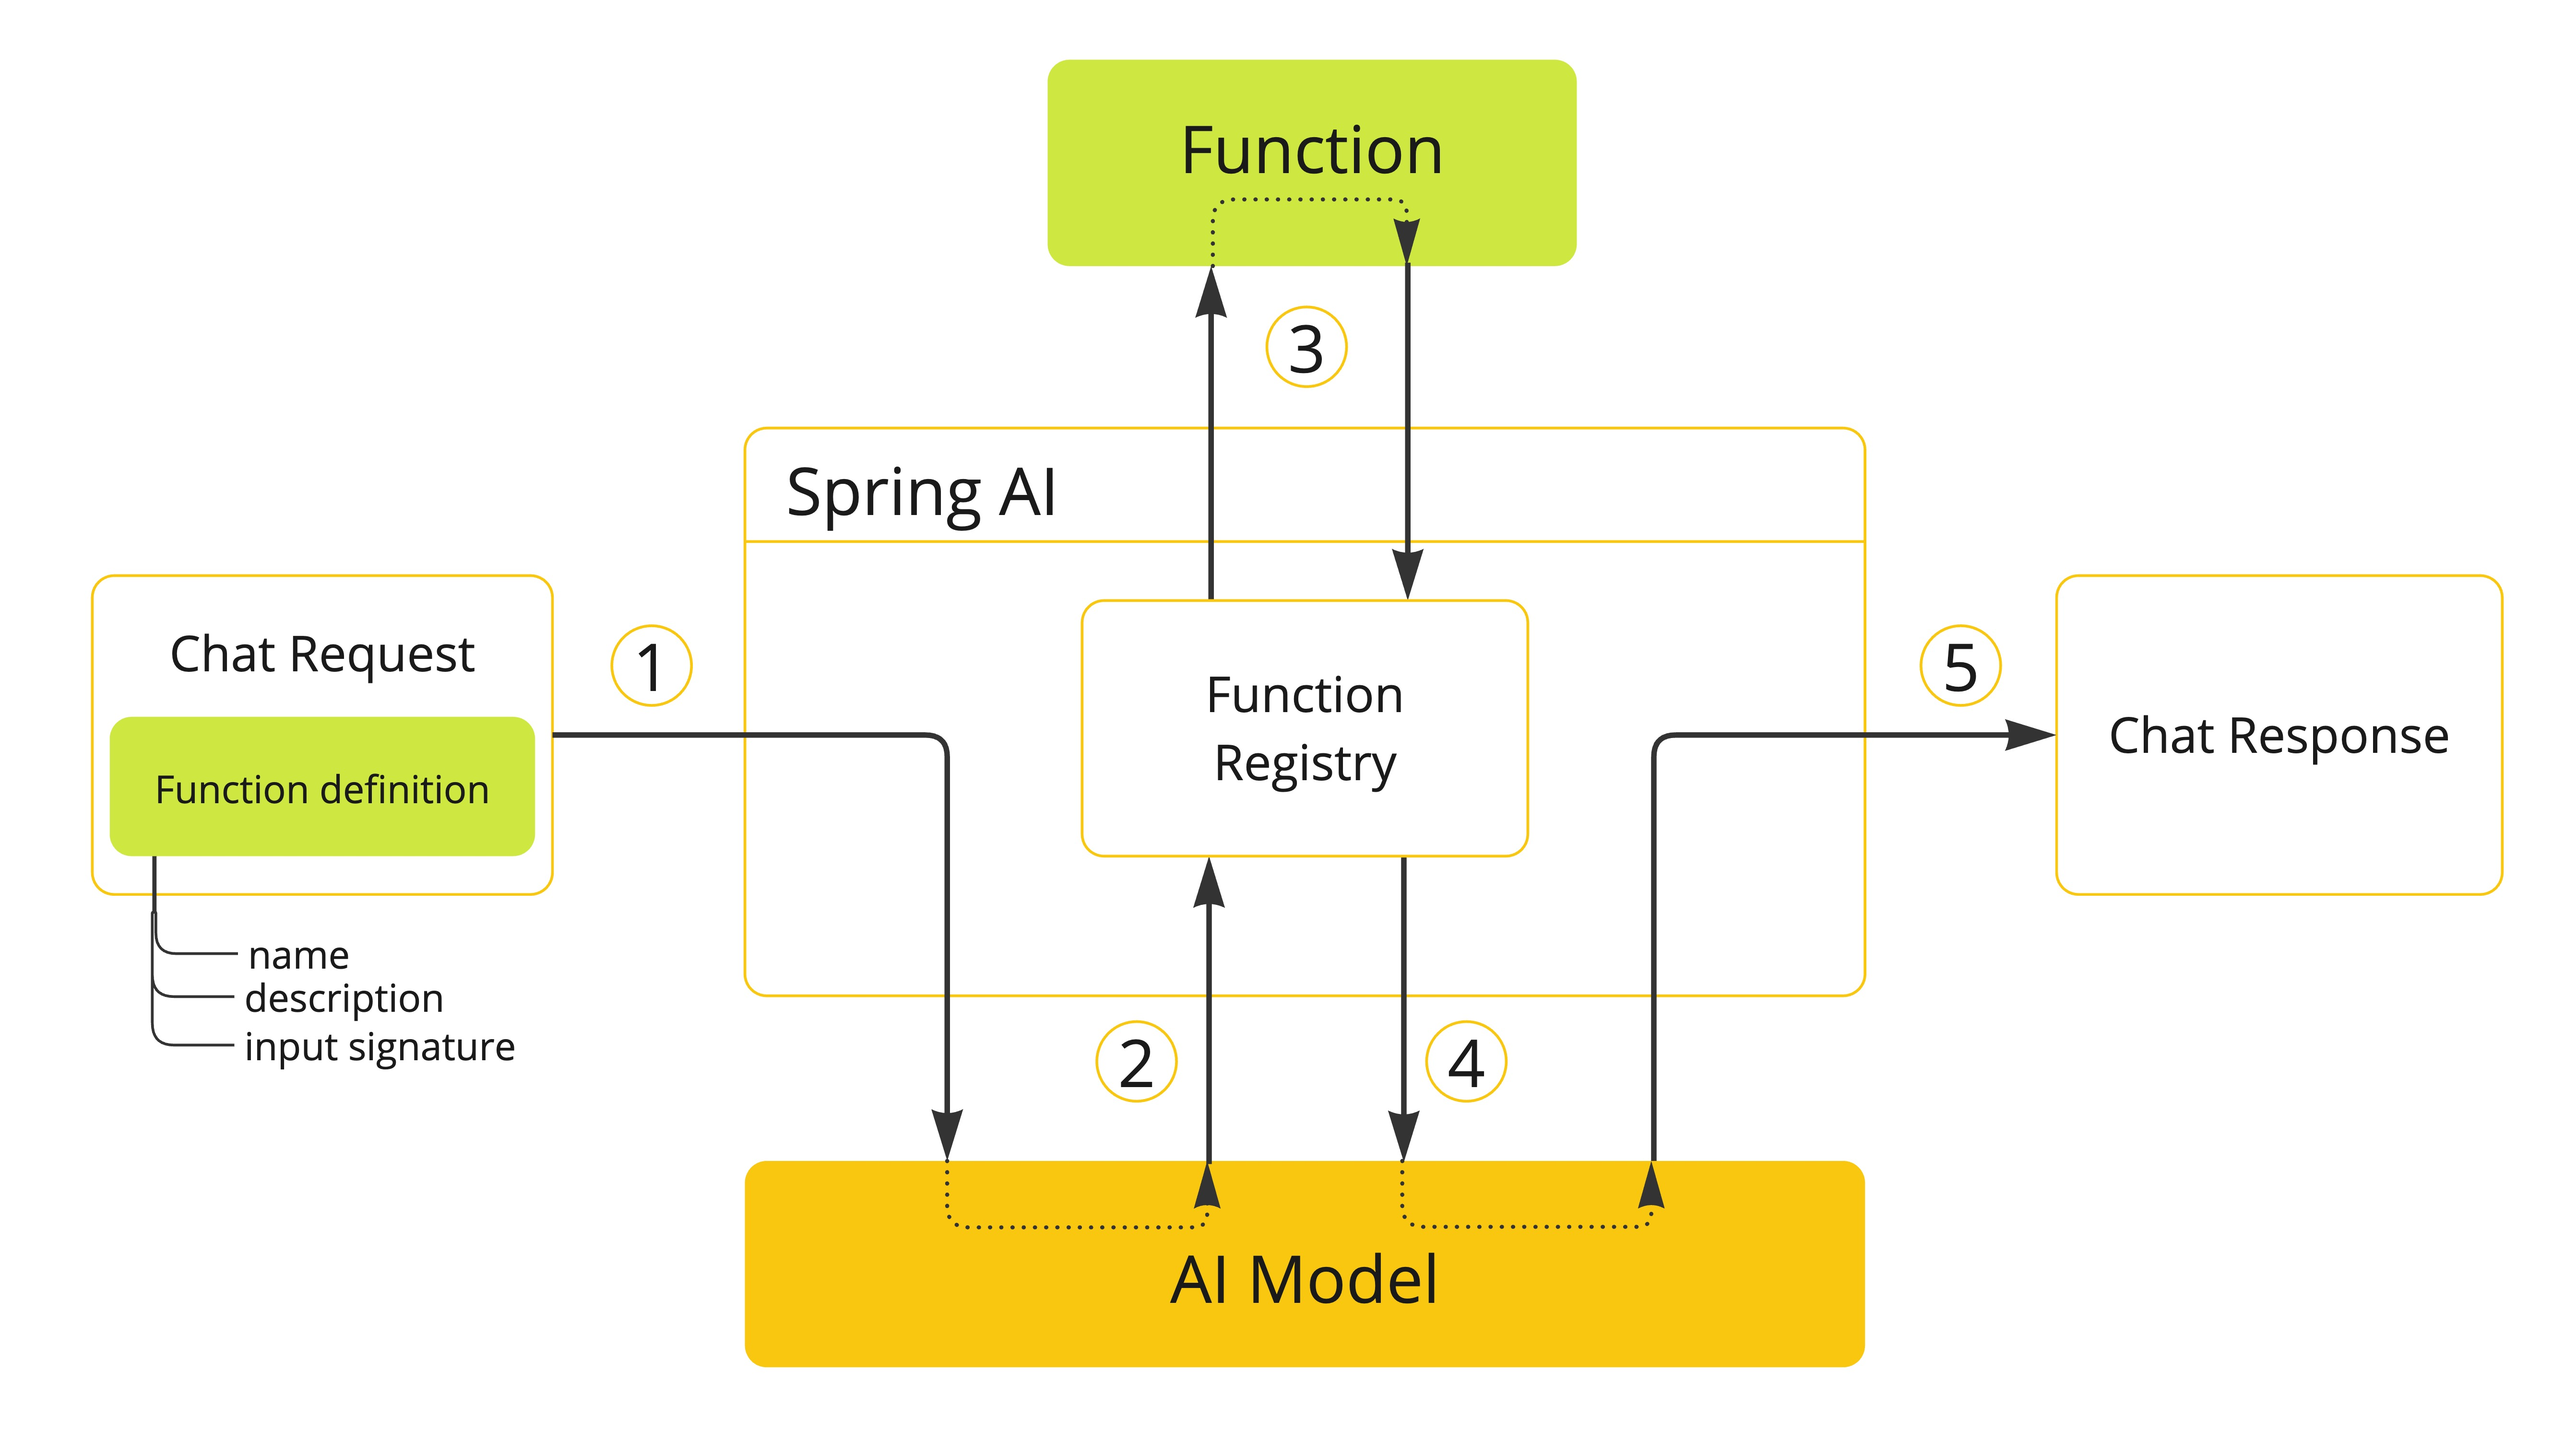
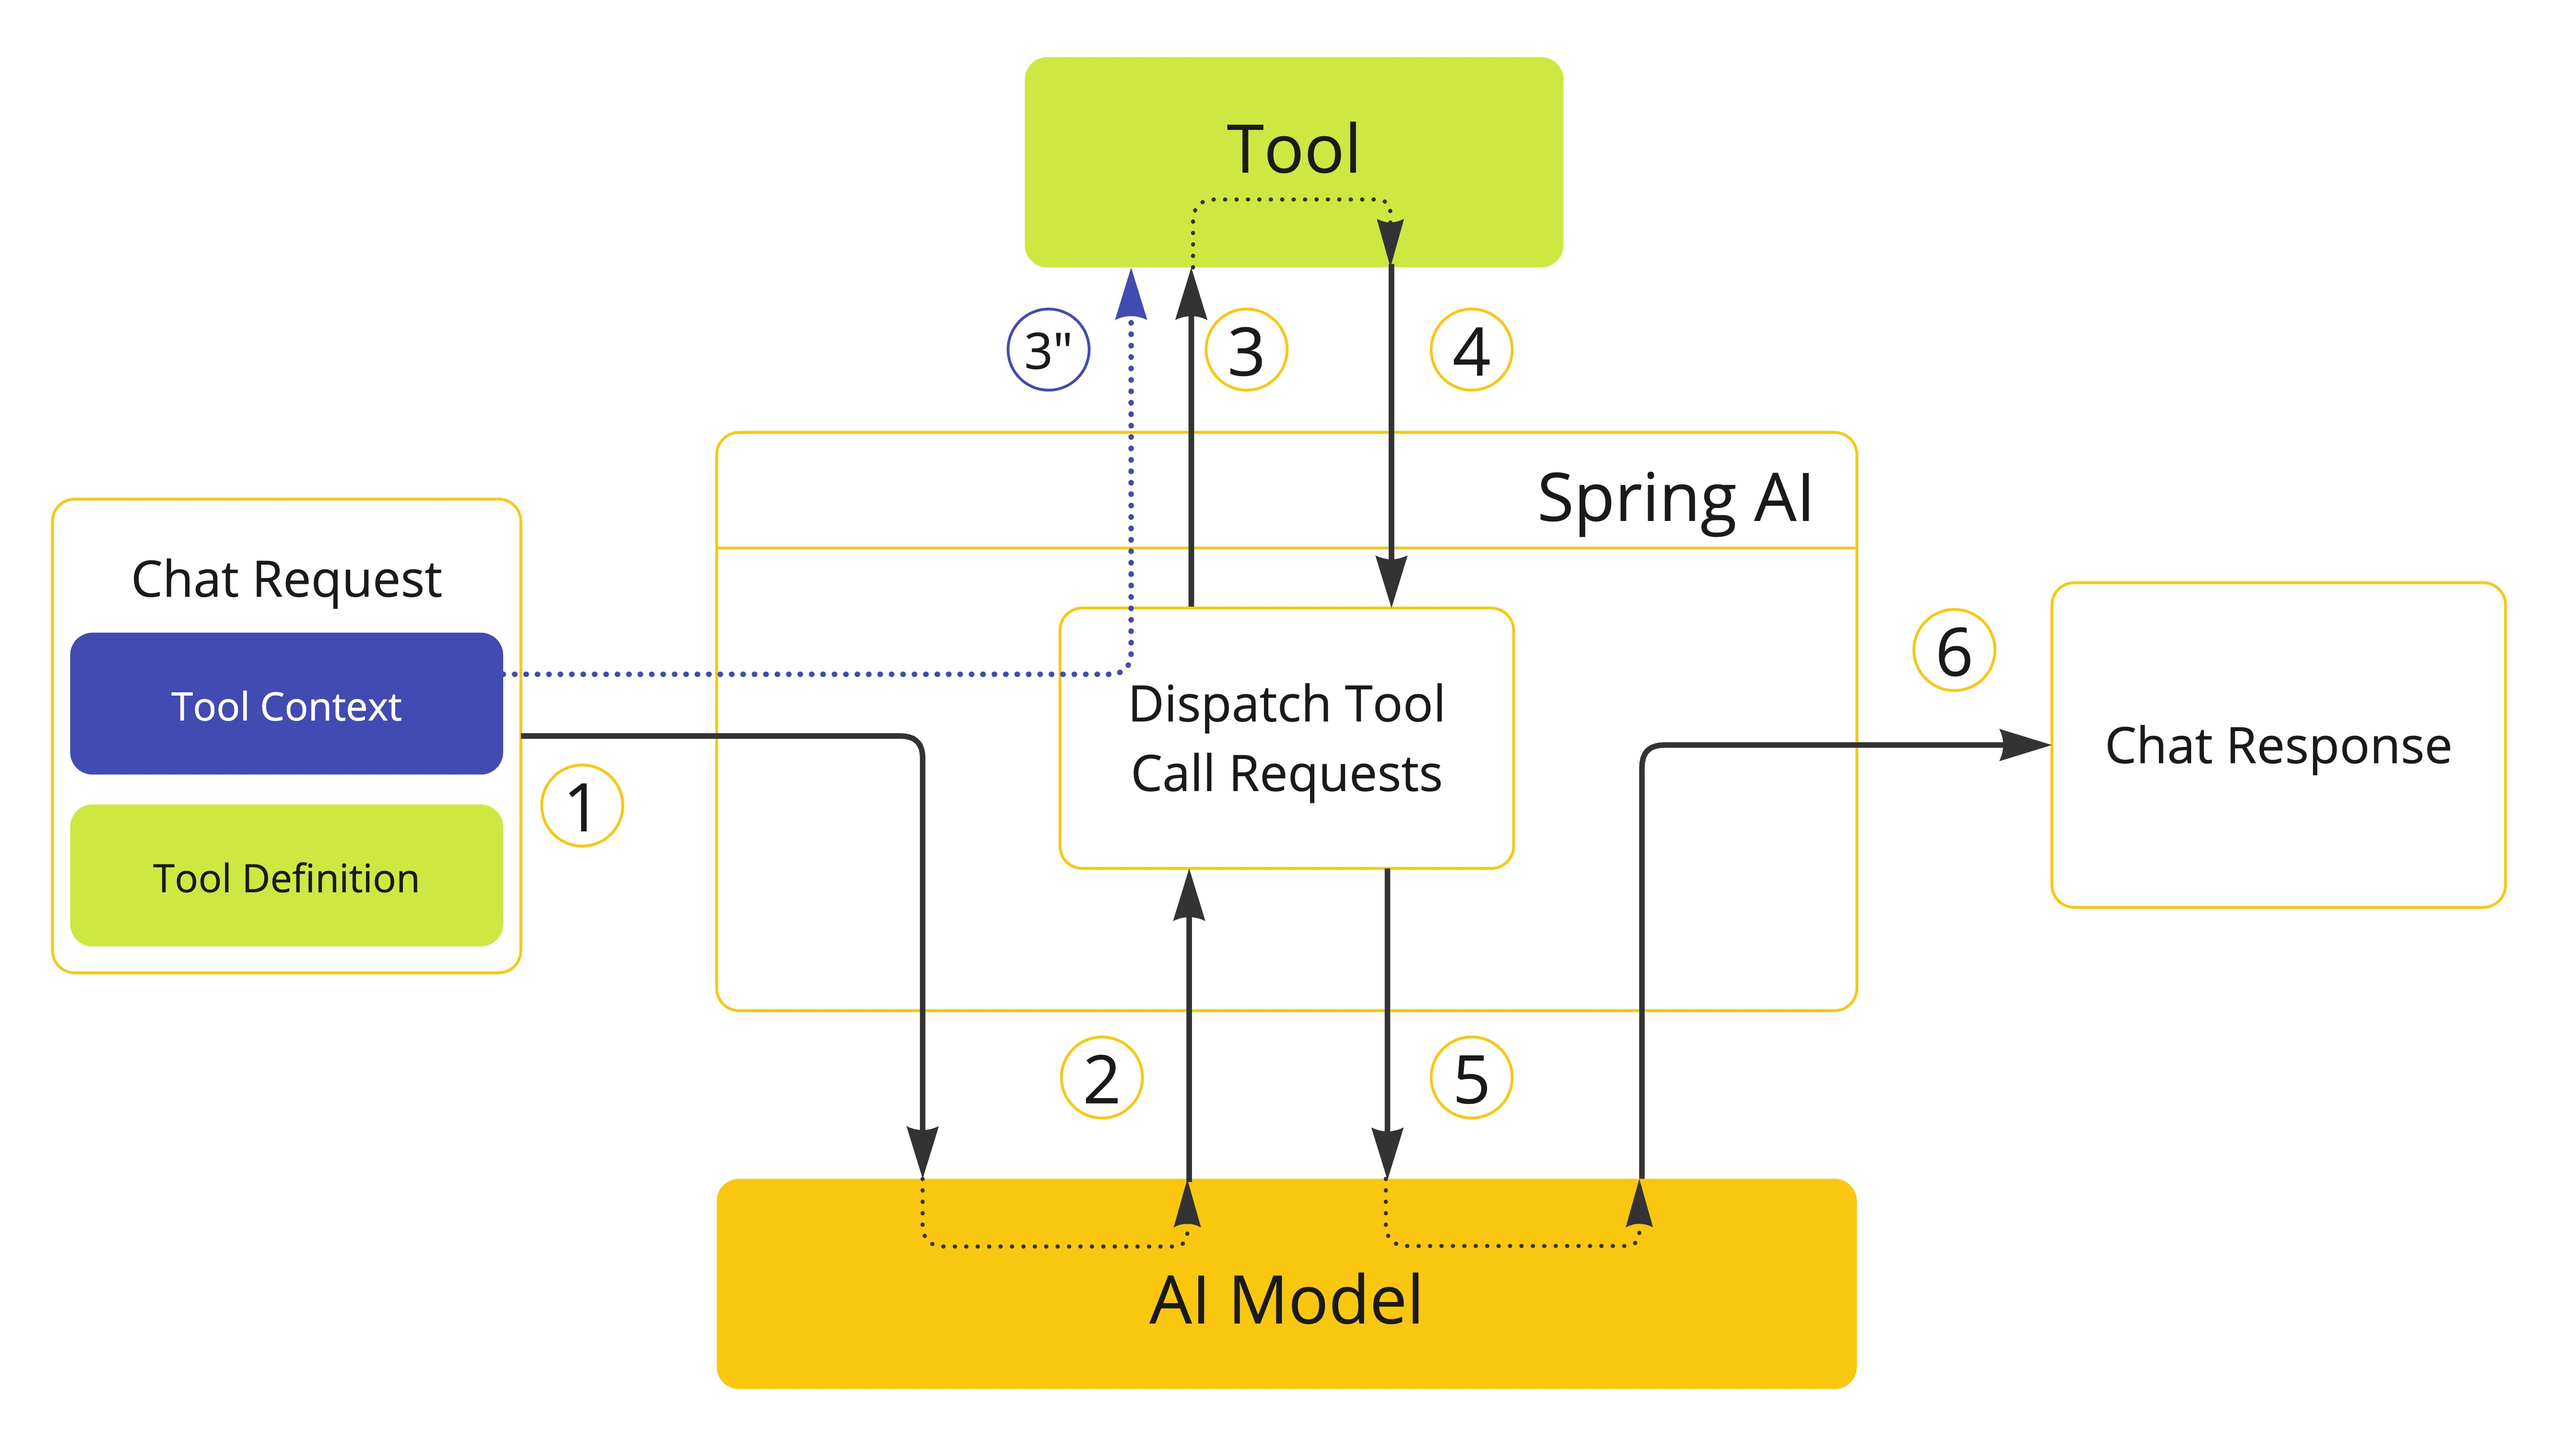
update to spring-ai 1.0.0-M6

diff --git a/src/main/java/nl/getthere/demo/tools/MockWeatherService.java b/src/main/java/nl/getthere/demo/tools/MockWeatherService.java
@@ -2,35 +2,29 @@ package nl.getthere.demo.tools;
 
 
 import org.springframework.ai.chat.model.ToolContext;
+import org.springframework.ai.tool.annotation.Tool;
 
-import java.util.function.BiFunction;
-
-import static nl.getthere.demo.tools.MockWeatherService.Request;
-import static nl.getthere.demo.tools.MockWeatherService.Response;
-
-public class MockWeatherService implements BiFunction<Request, ToolContext, Response> {
+public class MockWeatherService {
 
     public enum Unit { C, F }
-    public record Request(String location) {}
     public record Response(Double temp, Unit unit) {}
 
-//    public Response apply(Request request, ToolContext toolContext) {
-//        return switch (request.location) {
-//            case "Leek" -> new Response(8.0, Unit.C);
-//            case "Madrid" -> new Response(30.0, Unit.C);
-//            default -> new Response(null, Unit.C);
-//        };
-//    }
-
-
-
-
-    public Response apply(Request request, ToolContext toolContext) {
-        Unit unit = Unit.valueOf((String) toolContext.getContext().get("unit"));
-        return switch (request.location) {
-            case "Leek" -> new Response(8.0, unit);
-            case "Madrid" -> new Response(30.0, unit);
-            default -> new Response(null, unit);
+    @Tool(description = "Get the weather in location")
+    public Response getWeatherForLocation(String location) {
+        return switch (location) {
+            case "Leek" -> new Response(8.0, Unit.C);
+            case "Madrid" -> new Response(30.0, Unit.C);
+            default -> new Response(null, Unit.C);
         };
     }
+
+//    @Tool(description = "Get the weather in location")
+//    public Response getWeatherForLocationWithToolContext(String location, ToolContext toolContext) {
+//        Unit unit = Unit.valueOf((String) toolContext.getContext().get("unit"));
+//        return switch (location) {
+//            case "Leek" -> new Response(8.0, unit);
+//            case "Madrid" -> new Response(30.0, unit);
+//            default -> new Response(null, unit);
+//        };
+//    }
 }

diff --git a/src/main/java/nl/getthere/demo/tools/Example5.java b/src/main/java/nl/getthere/demo/tools/Example5.java
@@ -29,13 +29,13 @@ public class Example5 {
 
         toolCallToEntity(chatClient);
 
-        toolCallWithContextArgement(chatClient);
+//        toolCallWithContextArgument(chatClient);
     }
 
     private void toolCallWithIndirectQuestion(ChatClient chatClient) {
         String response = chatClient.prompt()
                 .user("Wat is de temperatuur in de hoofdstad van Spanje?")
-                .functions("currentWeather")
+                .tools(new MockWeatherService())
                 .call()
                 .content();
         logger.info(response);
@@ -44,7 +44,7 @@ public class Example5 {
     private void multipleToolCalls(ChatClient chatClient) {
         String response = chatClient.prompt()
                 .user("Wat is de temperatuur in Madrid, Leek en Amsterdam?")
-                .functions("currentWeather")
+                .tools(new MockWeatherService())
                 .call()
                 .content();
         logger.info(response);
@@ -53,16 +53,16 @@ public class Example5 {
     private void toolCallToEntity(ChatClient chatClient) {
         Weather weather = chatClient.prompt()
                 .user("Wat is de temperatuur in Madrid?")
-                .functions("currentWeather")
+                .tools(new MockWeatherService())
                 .call()
                 .entity(Weather.class);
         logger.info(weather.toString());
     }
 
-    private void toolCallWithContextArgement(ChatClient chatClient) {
+    private void toolCallWithContextArgument(ChatClient chatClient) {
         String response = chatClient.prompt()
                 .user("Wat is de temperatuur in Madrid, Leek en Amsterdam?")
-                .functions("currentWeather")
+                .tools(new MockWeatherService())
                 .toolContext(Map.of("unit", "F"))
                 .call()
                 .content();

diff --git a/src/main/java/nl/getthere/demo/example1/Example1.java b/src/main/java/nl/getthere/demo/example1/Example1.java
@@ -22,15 +22,15 @@ public class Example1 {
 
     public void run() {
         logger.info("Example1 - Chat Model");
-        AzureOpenAiChatModel chatModel = new AzureOpenAiChatModel(
-                new OpenAIClientBuilder()
-                        .credential(new AzureKeyCredential(azureOpenAiApiKey))
-                        .endpoint(azureOpenAiEndpoint),
-                AzureOpenAiChatOptions.builder()
-                        .deploymentName("gpt-4o-mini")
-                        .temperature(0.7)
-                        .build()
-        );
+        AzureOpenAiChatModel chatModel = AzureOpenAiChatModel.builder()
+            .openAIClientBuilder(new OpenAIClientBuilder()
+                .credential(new AzureKeyCredential(azureOpenAiApiKey))
+                .endpoint(azureOpenAiEndpoint))
+            .defaultOptions(AzureOpenAiChatOptions.builder()
+                .deploymentName("gpt-4o-mini")
+                .temperature(0.7)
+                .build())
+            .build();
 
         String response = chatModel.call("Generate the names of 5 famous pirates.");
         logger.info(response);

diff --git a/src/main/java/nl/getthere/demo/example2/Example2.java b/src/main/java/nl/getthere/demo/example2/Example2.java
@@ -1,14 +1,9 @@
 package nl.getthere.demo.example2;
 
-import com.azure.ai.openai.OpenAIClientBuilder;
-import com.azure.core.credential.AzureKeyCredential;
 import org.springframework.ai.azure.openai.AzureOpenAiChatModel;
-import org.springframework.ai.azure.openai.AzureOpenAiChatOptions;
 import org.springframework.ai.chat.client.ChatClient;
 import org.springframework.ai.chat.messages.AssistantMessage;
 import org.springframework.ai.chat.messages.UserMessage;
-import org.springframework.beans.factory.annotation.Autowired;
-import org.springframework.beans.factory.annotation.Value;
 import org.springframework.stereotype.Service;
 
 import java.util.List;
@@ -29,8 +24,7 @@ public class Example2 {
 
     public void run() {
         logger.info("Example2 - Chat Client");
-        ChatClient chatClient = ChatClient.builder(azureOpenAiChatModel)
-                .build();
+        ChatClient chatClient = ChatClient.builder(azureOpenAiChatModel).build();
 
         simpleChatExample(chatClient);
 

diff --git a/src/main/java/nl/getthere/demo/DemoApplication.java b/src/main/java/nl/getthere/demo/DemoApplication.java
@@ -31,17 +31,17 @@ public class DemoApplication {
 	public void execute() {
 		logger.info("-------------------------------");
 
-//		Spring AI: ChatModel
-		example1.run();
-
-//		Spring AI: ChatClient
-		example2.run();
-
-//		Spring AI: Entity mapping
-		example3.run();
-
-//		Spring AI: Advisor
-		example4.run();
+////		Spring AI: ChatModel
+//		example1.run();
+//
+////		Spring AI: ChatClient
+//		example2.run();
+//
+////		Spring AI: Entity mapping
+//		example3.run();
+//
+////		Spring AI: Advisor
+//		example4.run();
 
 //		Spring AI: Custom tools
 		example5.run();
